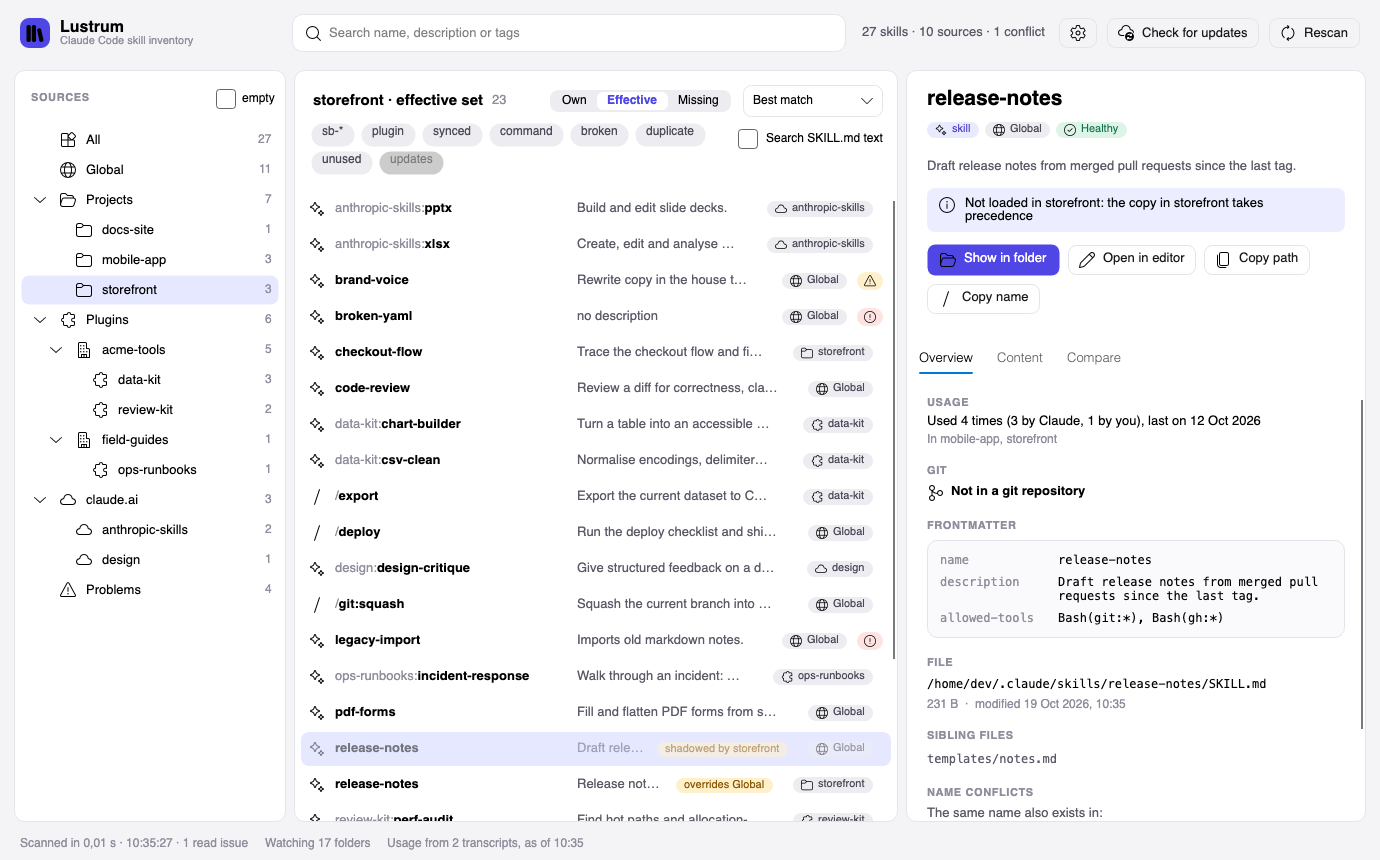
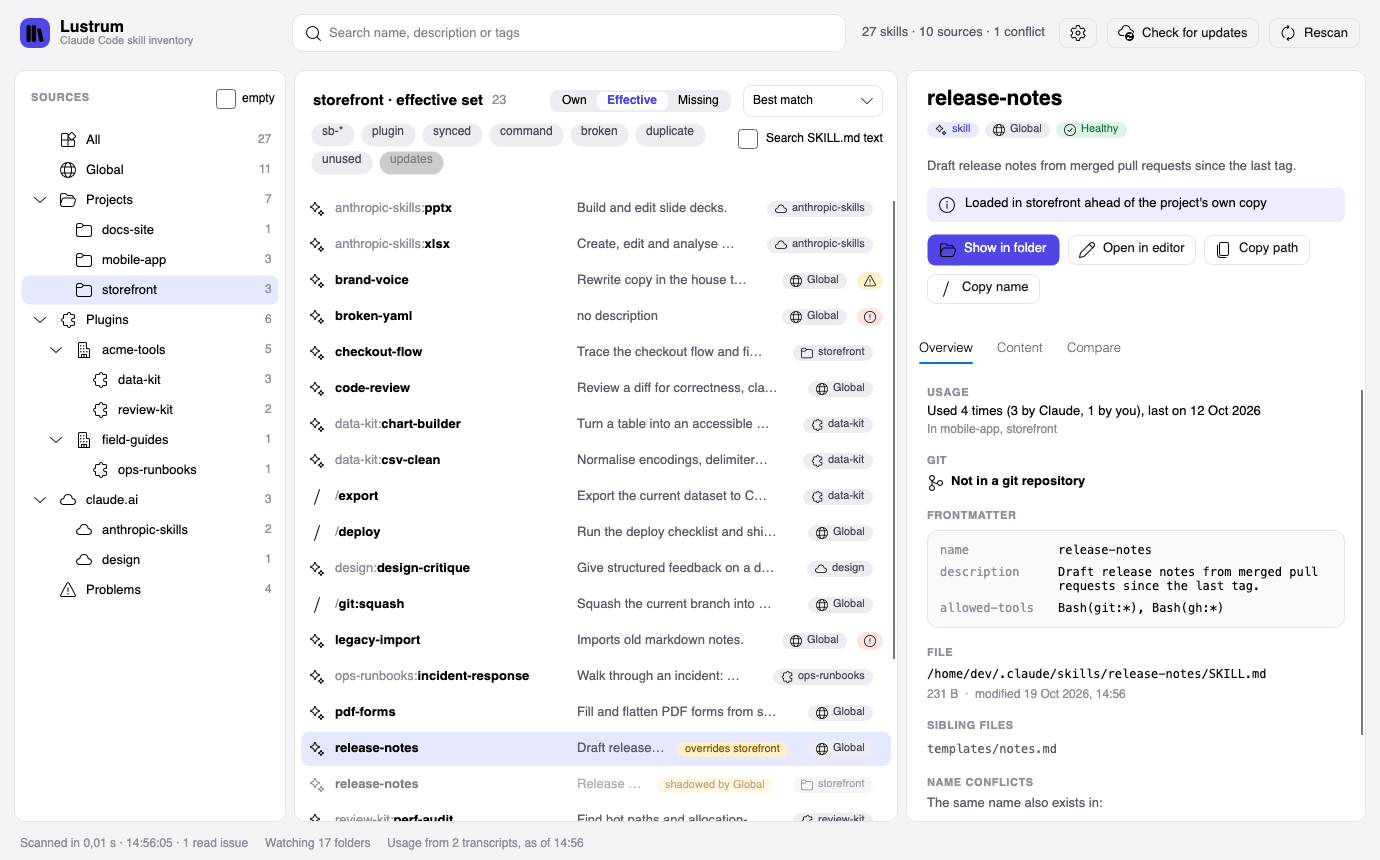
fix: personal skills take precedence over project skills (#8)
Claude Code runs the personal copy when a skill name exists in both
~/.claude/skills and a project's .claude/skills, and a skill beats a
command of the same name. The effective set had project over global.
The card now says which copy the winner is loaded ahead of.

diff --git a/tests/Lustrum.Core.Tests/EffectiveSetTests.cs b/tests/Lustrum.Core.Tests/EffectiveSetTests.cs
@@ -48,7 +48,7 @@ public class EffectiveSetTests : IDisposable
     }
 
     [Fact]
-    public async Task Project_skill_shadows_global_skill_with_the_same_name()
+    public async Task Personal_skill_shadows_project_skill_with_the_same_name()
     {
         _home.GlobalSkill("review", Doc("review", "global"));
         _home.ProjectSkill(_app, "review", Doc("review", "project"));
@@ -57,10 +57,22 @@ public class EffectiveSetTests : IDisposable
 
         var winner = set.Entries.Single(e => e.Availability == Availability.Active);
         var loser = set.Entries.Single(e => e.Availability == Availability.Shadowed);
-        winner.Skill.Source.Kind.Should().Be(SourceKind.Project);
+        winner.Skill.Source.Kind.Should().Be(SourceKind.Global);
         winner.Overrides.Should().ContainSingle().Which.Should().Be(loser.Skill);
-        loser.Skill.Source.Kind.Should().Be(SourceKind.Global);
+        loser.Skill.Source.Kind.Should().Be(SourceKind.Project);
         loser.ShadowedBy.Should().Be(winner.Skill);
+    }
+
+    [Fact]
+    public async Task A_skill_beats_a_command_with_the_same_name_wherever_it_lives()
+    {
+        _home.GlobalCommand("review", "---\ndescription: command\n---\nbody\n");
+        _home.ProjectSkill(_app, "review", Doc("review", "project"));
+
+        var set = await BuildFor(_app);
+
+        set.Entries.Single(e => e.Availability == Availability.Active).Skill.Kind.Should().Be(SkillKind.Skill);
+        set.Entries.Single(e => e.Availability == Availability.Shadowed).Skill.Kind.Should().Be(SkillKind.Command);
     }
 
     [Fact]
@@ -120,8 +132,8 @@ public class EffectiveSetTests : IDisposable
         var set = await BuildFor(_app);
 
         string Label(SkillSource s) => s.Kind == SourceKind.Global ? "Global" : s.DisplayName;
-        set.Entries.Single(e => e.Availability == Availability.Shadowed).Label(Label).Should().Be("shadowed by app");
-        set.Entries.Single(e => e.Overrides.Count > 0).Label(Label).Should().Be("overrides Global");
+        set.Entries.Single(e => e.Availability == Availability.Shadowed).Label(Label).Should().Be("shadowed by Global");
+        set.Entries.Single(e => e.Overrides.Count > 0).Label(Label).Should().Be("overrides app");
         set.Entries.Single(e => e.Skill.Name == "solo").Label(Label).Should().BeNull();
     }
 

diff --git a/tests/Lustrum.App.Tests/FeatureViewModelTests.cs b/tests/Lustrum.App.Tests/FeatureViewModelTests.cs
@@ -68,9 +68,9 @@ public class FeatureViewModelTests
         vm.ListTitle.Should().Be("app · effective set");
         vm.VisibleSkills.Select(s => s.Skill.FullName).Should().BeEquivalentTo("design", "design", "notes", "unity:ui");
         var shadowed = vm.VisibleSkills.Single(s => s.IsShadowed);
-        shadowed.Skill.Source.Kind.Should().Be(SourceKind.Global);
-        shadowed.AvailabilityLabel.Should().Be("shadowed by app");
-        vm.VisibleSkills.Single(s => s.Skill.Source.Kind == SourceKind.Project).AvailabilityLabel.Should().Be("overrides Global");
+        shadowed.Skill.Source.Kind.Should().Be(SourceKind.Project);
+        shadowed.AvailabilityLabel.Should().Be("shadowed by Global");
+        vm.VisibleSkills.Single(s => s.Skill.FullName == "design" && s.Skill.Source.Kind == SourceKind.Global).AvailabilityLabel.Should().Be("overrides app");
     }
 
     [Fact]
@@ -82,7 +82,19 @@ public class FeatureViewModelTests
 
         vm.SelectedSkill = vm.VisibleSkills.Single(s => s.IsShadowed);
 
-        vm.Card!.AvailabilityNote.Should().Contain("Not loaded in app").And.Contain("app");
+        vm.Card!.AvailabilityNote.Should().Be("Not loaded in app: the copy in Global takes precedence");
+    }
+
+    [Fact]
+    public async Task Effective_set_card_names_what_the_winner_beats()
+    {
+        var vm = await Scanned();
+        vm.SelectedNode = Node(vm, "app");
+        vm.SelectedProjectView = View(vm, ProjectView.Effective);
+
+        vm.SelectedSkill = vm.VisibleSkills.Single(s => s.Skill.FullName == "design" && !s.IsShadowed);
+
+        vm.Card!.AvailabilityNote.Should().Be("Loaded in app ahead of the project's own copy");
     }
 
     [Fact]

diff --git a/src/Lustrum.Core/Effective/EffectiveSetBuilder.cs b/src/Lustrum.Core/Effective/EffectiveSetBuilder.cs
@@ -6,8 +6,8 @@ namespace Lustrum.Core.Effective;
 
 /// <summary>
 /// Resolves what Claude Code loads in one project: that project's skills, global skills, enabled plugins and
-/// skills synced from the claude.ai account. A project skill wins over a global skill with the same name;
-/// plugin and synced skills are always prefixed.
+/// skills synced from the claude.ai account. Within one name a skill beats a command, and a personal (global)
+/// copy beats a project copy, as Claude Code resolves them; plugin and synced skills are always prefixed.
 /// </summary>
 public static class EffectiveSetBuilder
 {
@@ -50,5 +50,6 @@ public static class EffectiveSetBuilder
     private static EffectiveEntry Active(Skill skill, IReadOnlyList<Skill> overrides) =>
         new(skill, Availability.Active, null, overrides);
 
-    private static int Rank(Skill skill) => skill.Source.Kind == SourceKind.Project ? 0 : 1;
+    private static int Rank(Skill skill) =>
+        (skill.Kind == SkillKind.Command ? 2 : 0) + (skill.Source.Kind == SourceKind.Project ? 1 : 0);
 }

diff --git a/src/Lustrum.App/ViewModels/SkillCardViewModel.cs b/src/Lustrum.App/ViewModels/SkillCardViewModel.cs
@@ -168,10 +168,16 @@ public sealed partial class SkillCardViewModel : ObservableObject
         }
 
         return entry.Overrides.Count > 0
-            ? $"Loaded in {project} instead of the copy in "
-                + string.Join(", ", entry.Overrides.Select(o => SkillItemViewModel.SourceLabelFor(o.Source)).Distinct())
+            ? $"Loaded in {project} ahead of " + string.Join(", ", entry.Overrides.Select(o => CopyName(o)).Distinct())
             : $"Loaded in {project}";
     }
+
+    private static string CopyName(Skill skill) => skill switch
+    {
+        { Source.Kind: SourceKind.Project } => "the project's own copy",
+        { Kind: SkillKind.Command } => $"the command in {SkillItemViewModel.SourceLabelFor(skill.Source)}",
+        _ => $"the copy in {SkillItemViewModel.SourceLabelFor(skill.Source)}",
+    };
 
     private static string FormatSize(long bytes) => bytes switch
     {

diff --git a/README.md b/README.md
@@ -58,7 +58,7 @@ cd lustrum
 
 dotnet run --project src/Lustrum.App                   # the window
 dotnet run --project src/Lustrum.Cli -- list           # the same data in the terminal
-dotnet test                                            # 310 tests
+dotnet test                                            # 312 tests
 ```
 
 The window is developed on macOS. CI builds and tests on Ubuntu, macOS and Windows.
@@ -88,7 +88,7 @@ The window is developed on macOS. CI builds and tests on Ubuntu, macOS and Windo
 <td width="50%"><img src="docs/problems.png" alt="Problems list: broken YAML, missing frontmatter, long description, missing project"/></td>
 </tr>
 <tr>
-<td align="center"><sub>Effective set: the project copy overrides the global one</sub></td>
+<td align="center"><sub>Effective set: the personal copy wins over the project one</sub></td>
 <td align="center"><sub>Problems</sub></td>
 </tr>
 <tr>
@@ -255,8 +255,9 @@ top of the file.
 ### Effective set
 
 `EffectiveSetBuilder.Build(scan, project)` takes that project's skills, the global skills, the skills of
-enabled plugins and the skills synced from claude.ai. Within one name, a project skill wins over a global one: the winner is `Active` and lists what
-it overrides, the loser is `Shadowed` and points at the winner. Prefixed skills are never shadowed. Skills from other projects are not part of the set.
+enabled plugins and the skills synced from claude.ai. Within one name it follows Claude Code's rules: a skill beats
+a command, and a personal (global) copy beats a project copy. The winner is `Active` and lists what it overrides, the
+loser is `Shadowed` and points at the winner. Prefixed skills are never shadowed. Skills from other projects are not part of the set.
 
 ### Missing
 
@@ -430,10 +431,10 @@ needs a `.claude` directory; Claude Code does not have to know about it yet.
 
 ```text
 $ lustrum list --project ~/work/storefront --source project
-NAME           SOURCE      HEALTH              IN PROJECT        DESCRIPTION
-checkout-flow  storefront  ok                  loaded            Trace the checkout flow and find where an order can get stuck.
-release-notes  storefront  ok                  overrides Global  Release notes for the storefront: customer-facing wording, no ticket id…
-ui-kit         storefront  ok                  loaded            Use the shared component library correctly: tokens, spacing, accessibil…
+NAME           SOURCE      HEALTH              IN PROJECT          DESCRIPTION
+checkout-flow  storefront  ok                  loaded              Trace the checkout flow and find where an order can get stuck.
+release-notes  storefront  ok                  shadowed by Global  Release notes for the storefront: customer-facing wording, no ticket id…
+ui-kit         storefront  ok                  loaded              Use the shared component library correctly: tokens, spacing, accessibil…
 ```
 
 `--project <folder> --missing` lists the skills that project does not load, with a `NOTE` column for disabled
@@ -477,7 +478,7 @@ lustrum/
 
 ## Tests
 
-310 xUnit tests with FluentAssertions. Core tests do not scan your real `~/.claude`: `FakeClaudeHome` builds a
+312 xUnit tests with FluentAssertions. Core tests do not scan your real `~/.claude`: `FakeClaudeHome` builds a
 throw-away home directory with skills, commands, plugin registry, settings, project folders and `~/.claude.json`,
 and the scanner runs against it. That makes the awkward cases cheap to cover: colliding project keys, malformed
 registry files, unreadable folders, folders with dashes and dots in their names, frontmatter with a BOM and tabs,
